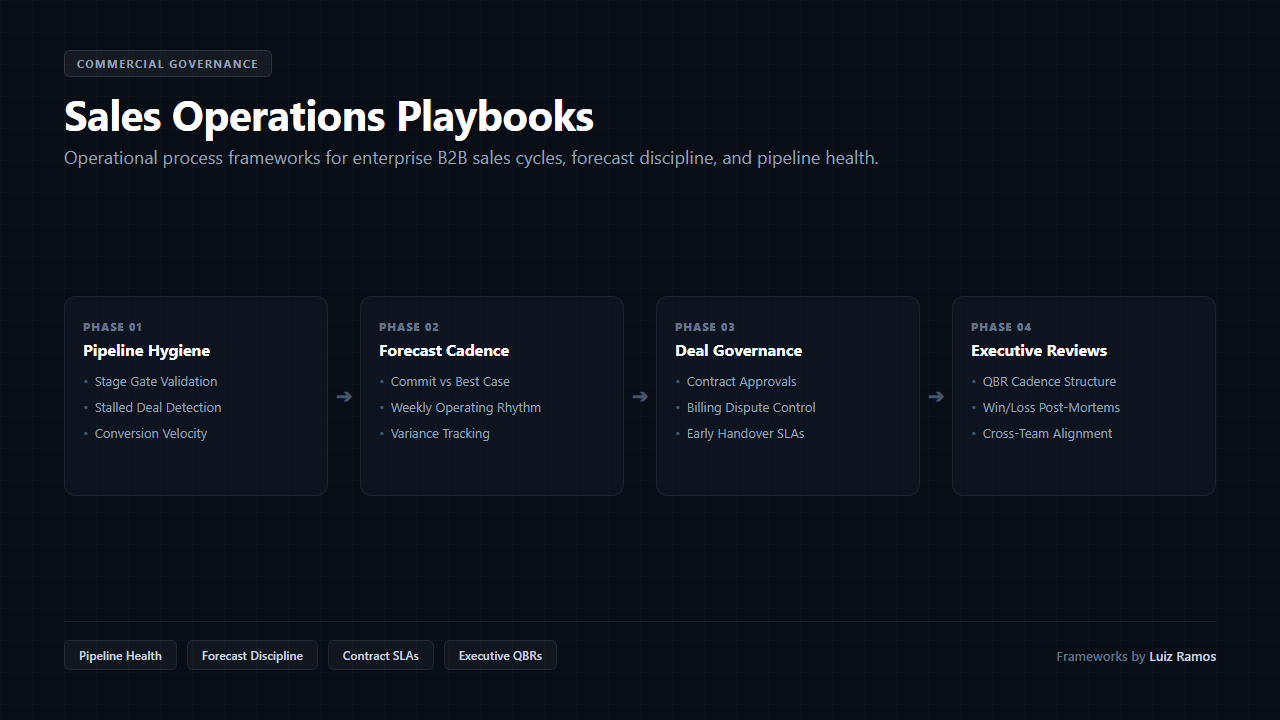
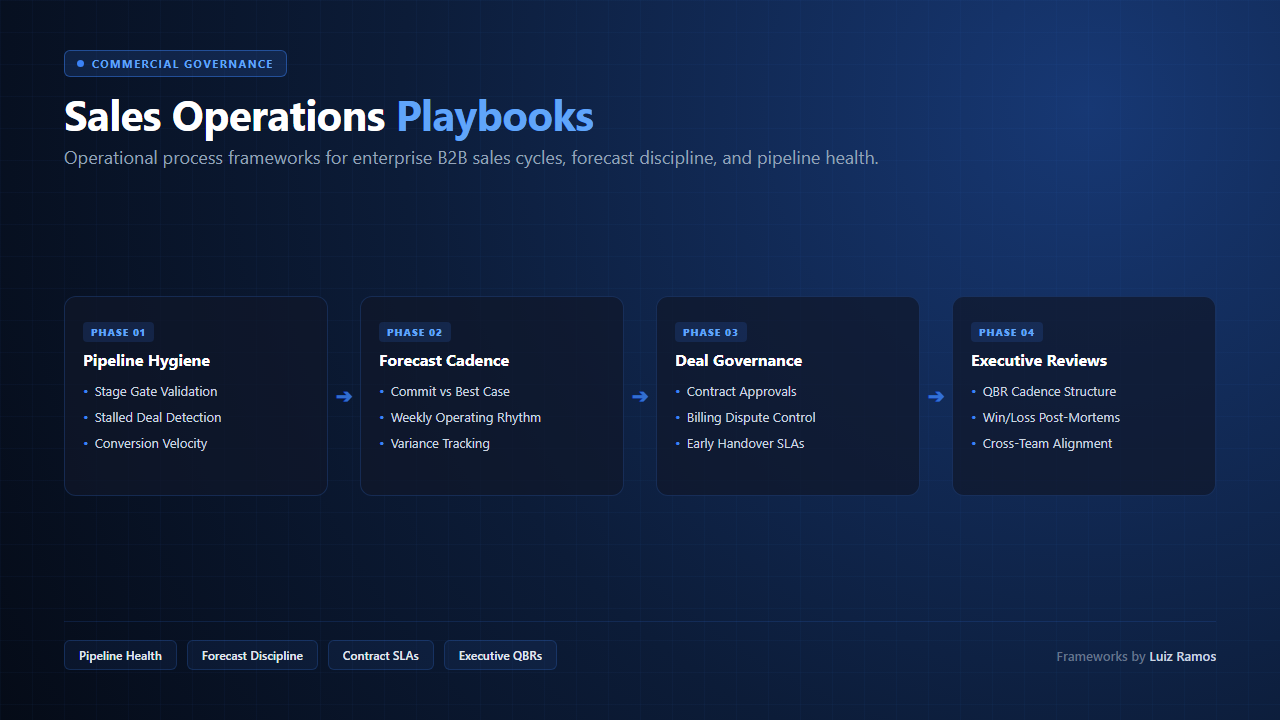
style: differentiate visual palettes (emerald architecture, sapphire sales ops, and warm gold power bi)

diff --git a/assets/linkedin/generate_cards.py b/assets/linkedin/generate_cards.py
@@ -1,8 +1,8 @@
 """
-Generates refined executive featured cards for LinkedIn and GitHub:
-- Card 1: Clean Architecture Flowchart diagram (Ports ➔ Core Engine ➔ Executive Output).
-- Card 2: 4-Stage Sequential Pipeline Process Flowchart (Hygiene ➔ Forecast ➔ Deal Governance ➔ QBRs).
-- Card 3: Executive Metric & KPI Cards for Power BI (The preferred analytics cockpit layout).
+Generates refined, visually distinct executive featured cards for LinkedIn and GitHub:
+- Card 1: Enterprise CSM Engine (The approved Emerald / Dark Slate System Architecture Flowchart).
+- Card 2: Sales Operations Playbooks (Distinct Deep Cobalt / Sapphire Blue Process Flowchart).
+- Card 3: Power BI Portfolio (Distinct Warm Amber / Gold Analytics Cockpit with Metric Cards).
 """
 
 import os
@@ -12,11 +12,18 @@ import time
 BASE_DIR = os.path.dirname(os.path.abspath(__file__))
 EDGE_PATH = r"C:\Program Files (x86)\Microsoft\Edge\Application\msedge.exe"
 
-COMMON_BASE_CSS = """
+# -----------------------------------------------------------------------------
+# CARD 1: ENTERPRISE CSM ENGINE (Approved Emerald / Dark Slate Architecture)
+# -----------------------------------------------------------------------------
+CARD_1_HTML = """<!DOCTYPE html>
+<html lang="en">
+<head>
+<meta charset="UTF-8">
+<style>
   * { box-sizing: border-box; margin: 0; padding: 0; }
   body {
     width: 1280px; height: 720px; overflow: hidden;
-    background: #090d16;
+    background: radial-gradient(circle at 85% 15%, #0d281e 0%, #081119 55%, #050a0f 100%);
     font-family: -apple-system, BlinkMacSystemFont, "Segoe UI", Roboto, "Inter", sans-serif;
     color: #f8fafc; padding: 50px 64px; display: flex; flex-direction: column; justify-content: space-between;
     position: relative;
@@ -29,13 +36,33 @@ COMMON_BASE_CSS = """
   }
   .header { z-index: 1; }
   .tag {
-    display: inline-block;
-    background: rgba(255, 255, 255, 0.05); border: 1px solid rgba(255, 255, 255, 0.12);
-    color: #94a3b8; font-size: 11px; font-weight: 700; text-transform: uppercase;
+    display: inline-flex; align-items: center; gap: 8px;
+    background: rgba(16, 185, 129, 0.12); border: 1px solid rgba(16, 185, 129, 0.4);
+    color: #34d399; font-size: 11px; font-weight: 700; text-transform: uppercase;
     letter-spacing: 1.5px; padding: 5px 12px; border-radius: 6px; margin-bottom: 14px;
   }
+  .tag-dot { width: 7px; height: 7px; border-radius: 50%; background: #10b981; }
   h1 { font-size: 42px; font-weight: 700; letter-spacing: -0.5px; color: #ffffff; line-height: 1.1; margin-bottom: 8px; }
+  h1 span { color: #34d399; }
   .subtitle { font-size: 18px; color: #94a3b8; font-weight: 400; max-width: 860px; line-height: 1.4; }
+
+  .flowchart-container {
+    z-index: 1; display: grid; grid-template-columns: 290px 48px 460px 48px 280px;
+    align-items: center; gap: 8px; margin: 18px 0;
+  }
+  .box {
+    background: rgba(15, 23, 42, 0.65); border: 1px solid rgba(255, 255, 255, 0.08);
+    border-radius: 12px; padding: 20px 20px;
+  }
+  .box.core {
+    background: rgba(16, 185, 129, 0.05); border: 1.5px solid rgba(16, 185, 129, 0.35);
+    box-shadow: 0 10px 30px rgba(0, 0, 0, 0.4);
+  }
+  .box-label { font-size: 11px; font-weight: 700; color: #64748b; text-transform: uppercase; letter-spacing: 1px; margin-bottom: 12px; }
+  .box-label.highlight { color: #34d399; }
+  .list { display: flex; flex-direction: column; gap: 9px; font-size: 13px; }
+  .item { display: flex; align-items: center; gap: 8px; color: #cbd5e1; }
+  .arrow { text-align: center; color: #34d399; font-size: 22px; font-weight: bold; opacity: 0.7; }
 
   .footer { z-index: 1; display: flex; align-items: center; justify-content: space-between; border-top: 1px solid rgba(255,255,255,0.08); padding-top: 18px; }
   .badges-group { display: flex; gap: 10px; }
@@ -45,39 +72,13 @@ COMMON_BASE_CSS = """
   }
   .author { font-size: 13px; font-weight: 500; color: #64748b; }
   .author span { color: #cbd5e1; font-weight: 600; }
-"""
-
-# Card 1: Flowchart Architecture (Ports ➔ Core Cognitive Engine ➔ Executive Output)
-CARD_1_HTML = f"""<!DOCTYPE html>
-<html lang="en">
-<head>
-<meta charset="UTF-8">
-<style>
-{COMMON_BASE_CSS}
-  .flowchart-container {{
-    z-index: 1; display: grid; grid-template-columns: 290px 48px 460px 48px 280px;
-    align-items: center; gap: 8px; margin: 18px 0;
-  }}
-  .box {{
-    background: rgba(17, 24, 39, 0.6); border: 1px solid rgba(255, 255, 255, 0.08);
-    border-radius: 12px; padding: 20px 20px;
-  }}
-  .box.core {{
-    background: rgba(17, 24, 39, 0.85); border: 1px solid rgba(255, 255, 255, 0.18);
-    box-shadow: 0 10px 30px rgba(0, 0, 0, 0.4);
-  }}
-  .box-label {{ font-size: 11px; font-weight: 700; color: #64748b; text-transform: uppercase; letter-spacing: 1px; margin-bottom: 12px; }}
-  .box-label.highlight {{ color: #e2e8f0; }}
-  .list {{ display: flex; flex-direction: column; gap: 9px; font-size: 13px; }}
-  .item {{ display: flex; align-items: center; gap: 8px; color: #cbd5e1; }}
-  .arrow {{ text-align: center; color: #475569; font-size: 22px; font-weight: bold; }}
 </style>
 </head>
 <body>
   <div class="grid-bg"></div>
   <div class="header">
-    <div class="tag">System Architecture</div>
-    <h1>Enterprise CSM Engine</h1>
+    <div class="tag"><div class="tag-dot"></div> System Architecture</div>
+    <h1>Enterprise CSM <span>Engine</span></h1>
     <div class="subtitle">Autonomous system engineered to streamline account governance, SLA tracking, and executive morning briefings.</div>
   </div>
 
@@ -129,35 +130,75 @@ CARD_1_HTML = f"""<!DOCTYPE html>
 </body>
 </html>"""
 
-# Card 2: 4-Stage Sequential Process Flowchart (Hygiene ➔ Forecast ➔ Execution ➔ QBRs)
-CARD_2_HTML = f"""<!DOCTYPE html>
+# -----------------------------------------------------------------------------
+# CARD 2: SALES OPERATIONS PLAYBOOKS (Distinct Deep Cobalt / Sapphire Blue)
+# -----------------------------------------------------------------------------
+CARD_2_HTML = """<!DOCTYPE html>
 <html lang="en">
 <head>
 <meta charset="UTF-8">
 <style>
-{COMMON_BASE_CSS}
-  .pipeline-flow {{
+  * { box-sizing: border-box; margin: 0; padding: 0; }
+  body {
+    width: 1280px; height: 720px; overflow: hidden;
+    background: radial-gradient(circle at 85% 15%, #173874 0%, #0c1c38 55%, #050b17 100%);
+    font-family: -apple-system, BlinkMacSystemFont, "Segoe UI", Roboto, "Inter", sans-serif;
+    color: #f8fafc; padding: 50px 64px; display: flex; flex-direction: column; justify-content: space-between;
+    position: relative;
+  }
+  .grid-bg {
+    position: absolute; top: 0; left: 0; right: 0; bottom: 0;
+    background-image: linear-gradient(rgba(59,130,246,0.04) 1px, transparent 1px),
+                      linear-gradient(90deg, rgba(59,130,246,0.04) 1px, transparent 1px);
+    background-size: 32px 32px; pointer-events: none;
+  }
+  .header { z-index: 1; }
+  .tag {
+    display: inline-flex; align-items: center; gap: 8px;
+    background: rgba(59, 130, 246, 0.15); border: 1px solid rgba(59, 130, 246, 0.45);
+    color: #60a5fa; font-size: 11px; font-weight: 700; text-transform: uppercase;
+    letter-spacing: 1.5px; padding: 5px 12px; border-radius: 6px; margin-bottom: 14px;
+  }
+  .tag-dot { width: 7px; height: 7px; border-radius: 50%; background: #3b82f6; }
+  h1 { font-size: 42px; font-weight: 700; letter-spacing: -0.5px; color: #ffffff; line-height: 1.1; margin-bottom: 8px; }
+  h1 span { color: #60a5fa; }
+  .subtitle { font-size: 18px; color: #94a3b8; font-weight: 400; max-width: 860px; line-height: 1.4; }
+
+  .pipeline-flow {
     z-index: 1; display: grid; grid-template-columns: 1fr 24px 1fr 24px 1fr 24px 1fr;
     align-items: center; gap: 4px; margin: 20px 0;
-  }}
-  .step-box {{
-    background: rgba(17, 24, 39, 0.6); border: 1px solid rgba(255, 255, 255, 0.08);
+  }
+  .step-box {
+    background: rgba(15, 23, 42, 0.7); border: 1px solid rgba(59, 130, 246, 0.2);
     border-radius: 12px; padding: 22px 18px; display: flex; flex-direction: column; justify-content: space-between;
     min-height: 200px;
-  }}
-  .step-num {{ font-size: 11px; font-weight: 800; color: #64748b; text-transform: uppercase; letter-spacing: 1px; margin-bottom: 6px; }}
-  .step-title {{ font-size: 16px; font-weight: 700; color: #ffffff; margin-bottom: 12px; line-height: 1.2; }}
-  .step-items {{ display: flex; flex-direction: column; gap: 7px; font-size: 13px; color: #94a3b8; list-style: none; }}
-  .step-items li {{ display: flex; align-items: center; gap: 6px; }}
-  .step-items li::before {{ content: "•"; color: #475569; font-size: 14px; }}
-  .flow-arrow {{ text-align: center; color: #475569; font-size: 18px; font-weight: bold; }}
+  }
+  .step-num {
+    display: inline-block; background: rgba(59, 130, 246, 0.15); color: #60a5fa;
+    font-size: 10px; font-weight: 800; text-transform: uppercase; letter-spacing: 1px;
+    padding: 3px 8px; border-radius: 4px; margin-bottom: 8px; width: fit-content;
+  }
+  .step-title { font-size: 16px; font-weight: 700; color: #ffffff; margin-bottom: 12px; line-height: 1.2; }
+  .step-items { display: flex; flex-direction: column; gap: 7px; font-size: 13px; color: #cbd5e1; list-style: none; }
+  .step-items li { display: flex; align-items: center; gap: 6px; }
+  .step-items li::before { content: "•"; color: #3b82f6; font-size: 14px; }
+  .flow-arrow { text-align: center; color: #3b82f6; font-size: 18px; font-weight: bold; opacity: 0.8; }
+
+  .footer { z-index: 1; display: flex; align-items: center; justify-content: space-between; border-top: 1px solid rgba(59,130,246,0.15); padding-top: 18px; }
+  .badges-group { display: flex; gap: 10px; }
+  .badge {
+    background: rgba(59, 130, 246, 0.08); border: 1px solid rgba(59, 130, 246, 0.2);
+    color: #e2e8f0; font-size: 12px; font-weight: 600; padding: 6px 14px; border-radius: 6px;
+  }
+  .author { font-size: 13px; font-weight: 500; color: #64748b; }
+  .author span { color: #cbd5e1; font-weight: 600; }
 </style>
 </head>
 <body>
   <div class="grid-bg"></div>
   <div class="header">
-    <div class="tag">Commercial Governance</div>
-    <h1>Sales Operations Playbooks</h1>
+    <div class="tag"><div class="tag-dot"></div> Commercial Governance</div>
+    <h1>Sales Operations <span>Playbooks</span></h1>
     <div class="subtitle">Operational process frameworks for enterprise B2B sales cycles, forecast discipline, and pipeline health.</div>
   </div>
 
@@ -229,37 +270,73 @@ CARD_2_HTML = f"""<!DOCTYPE html>
 </body>
 </html>"""
 
-# Card 3: Metric & KPI Cards (The user's favorite layout)
-CARD_3_HTML = f"""<!DOCTYPE html>
+# -----------------------------------------------------------------------------
+# CARD 3: POWER BI PORTFOLIO (Distinct Warm Amber / Gold Analytics Cockpit)
+# -----------------------------------------------------------------------------
+CARD_3_HTML = """<!DOCTYPE html>
 <html lang="en">
 <head>
 <meta charset="UTF-8">
 <style>
-{COMMON_BASE_CSS}
-  .cards-grid {{
-    z-index: 1; display: grid; grid-template-columns: repeat(3, 1fr) 300px; gap: 16px; margin: 24px 0;
-  }}
-  .tile {{
-    background: rgba(17, 24, 39, 0.6); border: 1px solid rgba(255, 255, 255, 0.08);
-    border-radius: 12px; padding: 22px 20px; display: flex; flex-direction: column; justify-content: space-between;
-  }}
-  .tile-label {{ font-size: 11px; font-weight: 700; color: #64748b; text-transform: uppercase; letter-spacing: 0.8px; margin-bottom: 8px; }}
-  .tile-main {{ font-size: 34px; font-weight: 700; color: #ffffff; margin-bottom: 6px; }}
-  .tile-desc {{ font-size: 13px; color: #94a3b8; line-height: 1.4; }}
+  * { box-sizing: border-box; margin: 0; padding: 0; }
+  body {
+    width: 1280px; height: 720px; overflow: hidden;
+    background: radial-gradient(circle at 85% 15%, #3d2305 0%, #1c1103 55%, #0b0702 100%);
+    font-family: -apple-system, BlinkMacSystemFont, "Segoe UI", Roboto, "Inter", sans-serif;
+    color: #f8fafc; padding: 50px 64px; display: flex; flex-direction: column; justify-content: space-between;
+    position: relative;
+  }
+  .grid-bg {
+    position: absolute; top: 0; left: 0; right: 0; bottom: 0;
+    background-image: linear-gradient(rgba(245,158,11,0.03) 1px, transparent 1px),
+                      linear-gradient(90deg, rgba(245,158,11,0.03) 1px, transparent 1px);
+    background-size: 32px 32px; pointer-events: none;
+  }
+  .header { z-index: 1; }
+  .tag {
+    display: inline-flex; align-items: center; gap: 8px;
+    background: rgba(245, 158, 11, 0.15); border: 1px solid rgba(245, 158, 11, 0.45);
+    color: #fbbf24; font-size: 11px; font-weight: 700; text-transform: uppercase;
+    letter-spacing: 1.5px; padding: 5px 12px; border-radius: 6px; margin-bottom: 14px;
+  }
+  .tag-dot { width: 7px; height: 7px; border-radius: 50%; background: #f59e0b; }
+  h1 { font-size: 42px; font-weight: 700; letter-spacing: -0.5px; color: #ffffff; line-height: 1.1; margin-bottom: 8px; }
+  h1 span { color: #fbbf24; }
+  .subtitle { font-size: 18px; color: #94a3b8; font-weight: 400; max-width: 860px; line-height: 1.4; }
 
-  .side-tile {{
-    background: rgba(255, 255, 255, 0.02); border: 1px solid rgba(255, 255, 255, 0.1);
+  .cards-grid {
+    z-index: 1; display: grid; grid-template-columns: repeat(3, 1fr) 300px; gap: 16px; margin: 24px 0;
+  }
+  .tile {
+    background: rgba(26, 17, 7, 0.65); border: 1px solid rgba(245, 158, 11, 0.2);
+    border-radius: 12px; padding: 22px 20px; display: flex; flex-direction: column; justify-content: space-between;
+  }
+  .tile-label { font-size: 11px; font-weight: 700; color: #d97706; text-transform: uppercase; letter-spacing: 0.8px; margin-bottom: 8px; }
+  .tile-main { font-size: 34px; font-weight: 700; color: #fbbf24; margin-bottom: 6px; }
+  .tile-desc { font-size: 13px; color: #cbd5e1; line-height: 1.4; }
+
+  .side-tile {
+    background: rgba(245, 158, 11, 0.05); border: 1px solid rgba(245, 158, 11, 0.3);
     border-radius: 12px; padding: 22px 20px; display: flex; flex-direction: column; justify-content: center;
-  }}
-  .side-title {{ font-size: 12px; font-weight: 700; color: #e2e8f0; text-transform: uppercase; letter-spacing: 1px; margin-bottom: 8px; }}
-  .side-desc {{ font-size: 13px; color: #94a3b8; line-height: 1.5; }}
+  }
+  .side-title { font-size: 12px; font-weight: 700; color: #fbbf24; text-transform: uppercase; letter-spacing: 1px; margin-bottom: 8px; }
+  .side-desc { font-size: 13px; color: #cbd5e1; line-height: 1.5; }
+
+  .footer { z-index: 1; display: flex; align-items: center; justify-content: space-between; border-top: 1px solid rgba(245,158,11,0.15); padding-top: 18px; }
+  .badges-group { display: flex; gap: 10px; }
+  .badge {
+    background: rgba(245, 158, 11, 0.08); border: 1px solid rgba(245, 158, 11, 0.2);
+    color: #e2e8f0; font-size: 12px; font-weight: 600; padding: 6px 14px; border-radius: 6px;
+  }
+  .author { font-size: 13px; font-weight: 500; color: #64748b; }
+  .author span { color: #cbd5e1; font-weight: 600; }
 </style>
 </head>
 <body>
   <div class="grid-bg"></div>
   <div class="header">
-    <div class="tag">Business Intelligence</div>
-    <h1>Power BI & Sales Analytics</h1>
+    <div class="tag"><div class="tag-dot"></div> Business Intelligence</div>
+    <h1>Power BI & <span>Sales Analytics</span></h1>
     <div class="subtitle">End-to-end sales analytics, DAX performance modeling, and automated executive decision cockpits for enterprise teams.</div>
   </div>
 
